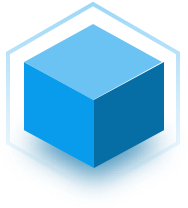
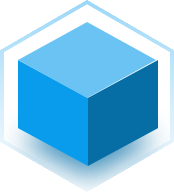
More nitpick image adjustments
I've now thrown the_cube.png into GIMP, trimmed the bottom of the image so that the visual borders actually touch the boundaries of the image. Before this, there was a tiny bit of blue drop-shadow at the bottom of the image that is barely visible. The image isn't exactly square (aspect ratio is now 0.90625 : 1) but at least there won't be a nearly invisible part of the image taking up extra space.

I've also resized the product images again so that they take up as much space as max(cube.width, cube.height).

This is as good as it seems like I can get it in terms of making these seem like they are equal sizes. It still looks like the cube takes up less space than the product images. I think my eyes are just playing tricks on me now. I don't care anymore. I just want to do something else ;-;

diff --git a/README.md b/README.md
@@ -6,12 +6,12 @@ At the moment, there is only one Python script and one shell script. The shell s
 ## Supported Tools
 | Tool     | Supported          | Product page                                                                        | Docker image                                                                                        |
 |----------|--------------------|-------------------------------------------------------------------------------------|-----------------------------------------------------------------------------------------------------|
-| Hub      | :heavy_check_mark: | [<img src="images/hub.svg" width="46" height="47"/>](https://www.jetbrains.com/hub/)           | [<img src="images/the_cube.png" width="47" height="52"/>](https://hub.docker.com/r/jetbrains/hub)              |
-| TeamCity | :heavy_check_mark: | [<img src="images/teamcity.svg" width="46" height="47"/>](https://www.jetbrains.com/teamcity/) | [<img src="images/the_cube.png" width="47" height="52"/>](https://hub.docker.com/r/jetbrains/teamcity-server/) |
-| Upsource | :heavy_check_mark: | [<img src="images/upsource.svg" width="46" height="47"/>](https://www.jetbrains.com/upsource/) | [<img src="images/the_cube.png" width="47" height="52"/>](https://hub.docker.com/r/jetbrains/upsource/)        |
-| YouTrack | :heavy_check_mark: | [<img src="images/youtrack.svg" width="46" height="47"/>](https://www.jetbrains.com/youtrack/) | [<img src="images/the_cube.png" width="47" height="52"/>](https://hub.docker.com/r/jetbrains/youtrack/)        |
-| Datalore | :x:                | [<img src="images/datalore.svg" width="46" height="47"/>](https://datalore.jetbrains.com/)     | N/A                                                                                                 |
-| Space    | :x:                | [<img src="images/space.svg" width="46" height="47"/>](https://www.jetbrains.com/space/)       | N/A                                                                                                 |
+| Hub      | :heavy_check_mark: | [<img src="images/hub.svg" width="52" height="52"/>](https://www.jetbrains.com/hub/)           | [<img src="images/the_cube.png" width="58" height="64"/>](https://hub.docker.com/r/jetbrains/hub)              |
+| TeamCity | :heavy_check_mark: | [<img src="images/teamcity.svg" width="52" height="52"/>](https://www.jetbrains.com/teamcity/) | [<img src="images/the_cube.png" width="58" height="64"/>](https://hub.docker.com/r/jetbrains/teamcity-server/) |
+| Upsource | :heavy_check_mark: | [<img src="images/upsource.svg" width="52" height="52"/>](https://www.jetbrains.com/upsource/) | [<img src="images/the_cube.png" width="58" height="64"/>](https://hub.docker.com/r/jetbrains/upsource/)        |
+| YouTrack | :heavy_check_mark: | [<img src="images/youtrack.svg" width="52" height="52"/>](https://www.jetbrains.com/youtrack/) | [<img src="images/the_cube.png" width="58" height="64"/>](https://hub.docker.com/r/jetbrains/youtrack/)        |
+| Datalore | :x:                | [<img src="images/datalore.svg" width="52" height="52"/>](https://datalore.jetbrains.com/)     | N/A                                                                                                 |
+| Space    | :x:                | [<img src="images/space.svg" width="52" height="52"/>](https://www.jetbrains.com/space/)       | N/A                                                                                                 |
 
 ## Contents
 Below is an explanation of what each script does and how to use them.
